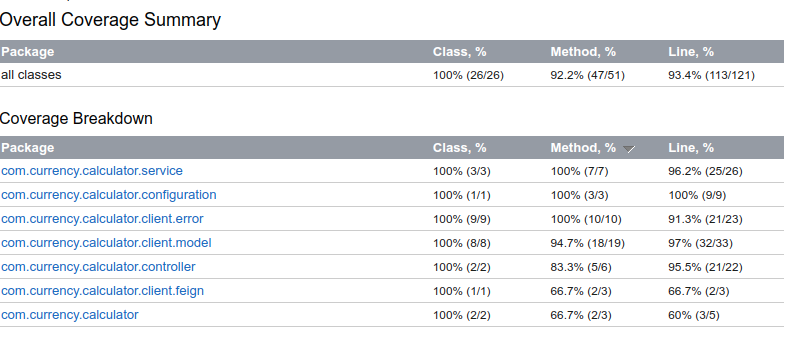
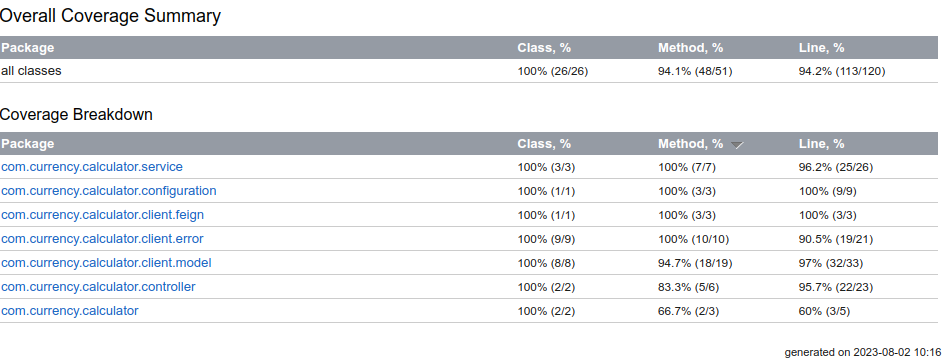
doc: update test coverage

Changed region(s): [[0.0, 0.2933, 1.0, 0.9971], [0.0, 0.0293, 1.0, 0.2639]]

diff --git a/src/main/kotlin/com/currency/calculator/client/error/FeignErrorDecoder.kt b/src/main/kotlin/com/currency/calculator/client/error/FeignErrorDecoder.kt
@@ -15,7 +15,7 @@ class FeignErrorDecoder(private val gson: Gson) : ErrorDecoder {
 
         return when {
             errorResponse == null -> UnknownCodeException("Error response could not be parsed")
-            errorResponse.errorMessage != null -> {
+            else -> {
                 when (errorResponse.errorMessage) {
                     "unsupported-code" -> UnsupportedCodeException("Unsupported currency code")
                     "malformed-request" -> MalformedRequestException("Malformed request")
@@ -25,7 +25,6 @@ class FeignErrorDecoder(private val gson: Gson) : ErrorDecoder {
                     else -> UnknownCodeException("Unknown error code: ${errorResponse.errorMessage}")
                 }
             }
-            else -> UnknownCodeException("Error message not found in error response")
         }
     }
 

diff --git a/src/main/kotlin/com/currency/calculator/client/feign/FeignConfig.kt b/src/main/kotlin/com/currency/calculator/client/feign/FeignConfig.kt
@@ -3,6 +3,7 @@ package com.currency.calculator.client.feign
 import com.currency.calculator.client.error.FeignErrorDecoder
 import com.google.gson.Gson
 import feign.Logger
+import feign.codec.ErrorDecoder
 import org.springframework.context.annotation.Bean
 
 class FeignConfig {
@@ -11,7 +12,8 @@ class FeignConfig {
     fun loggerLevel(): Logger.Level = Logger.Level.FULL
 
     @Bean
-    fun feignErrorDecoder(gson: Gson): FeignErrorDecoder {
+    fun errorDecoder(gson: Gson): ErrorDecoder {
         return FeignErrorDecoder(gson)
     }
+
 }

diff --git a/src/main/kotlin/com/currency/calculator/controller/ExchangeRateController.kt b/src/main/kotlin/com/currency/calculator/controller/ExchangeRateController.kt
@@ -57,7 +57,8 @@ class ExchangeRateController(
             val response = exchangeRateService.getLatestByBaseCode(baseCode)
             ResponseEntity(response, HttpStatus.OK)
         } catch (e: UnsupportedCodeException) {
-            ResponseEntity.status(HttpStatus.NOT_FOUND).body(ErrorResponse("Unsupported currency code: $baseCode"))
+            ResponseEntity.status(HttpStatus.NOT_FOUND)
+                .body("Unsupported currency code: $baseCode")
         }
     }
 
